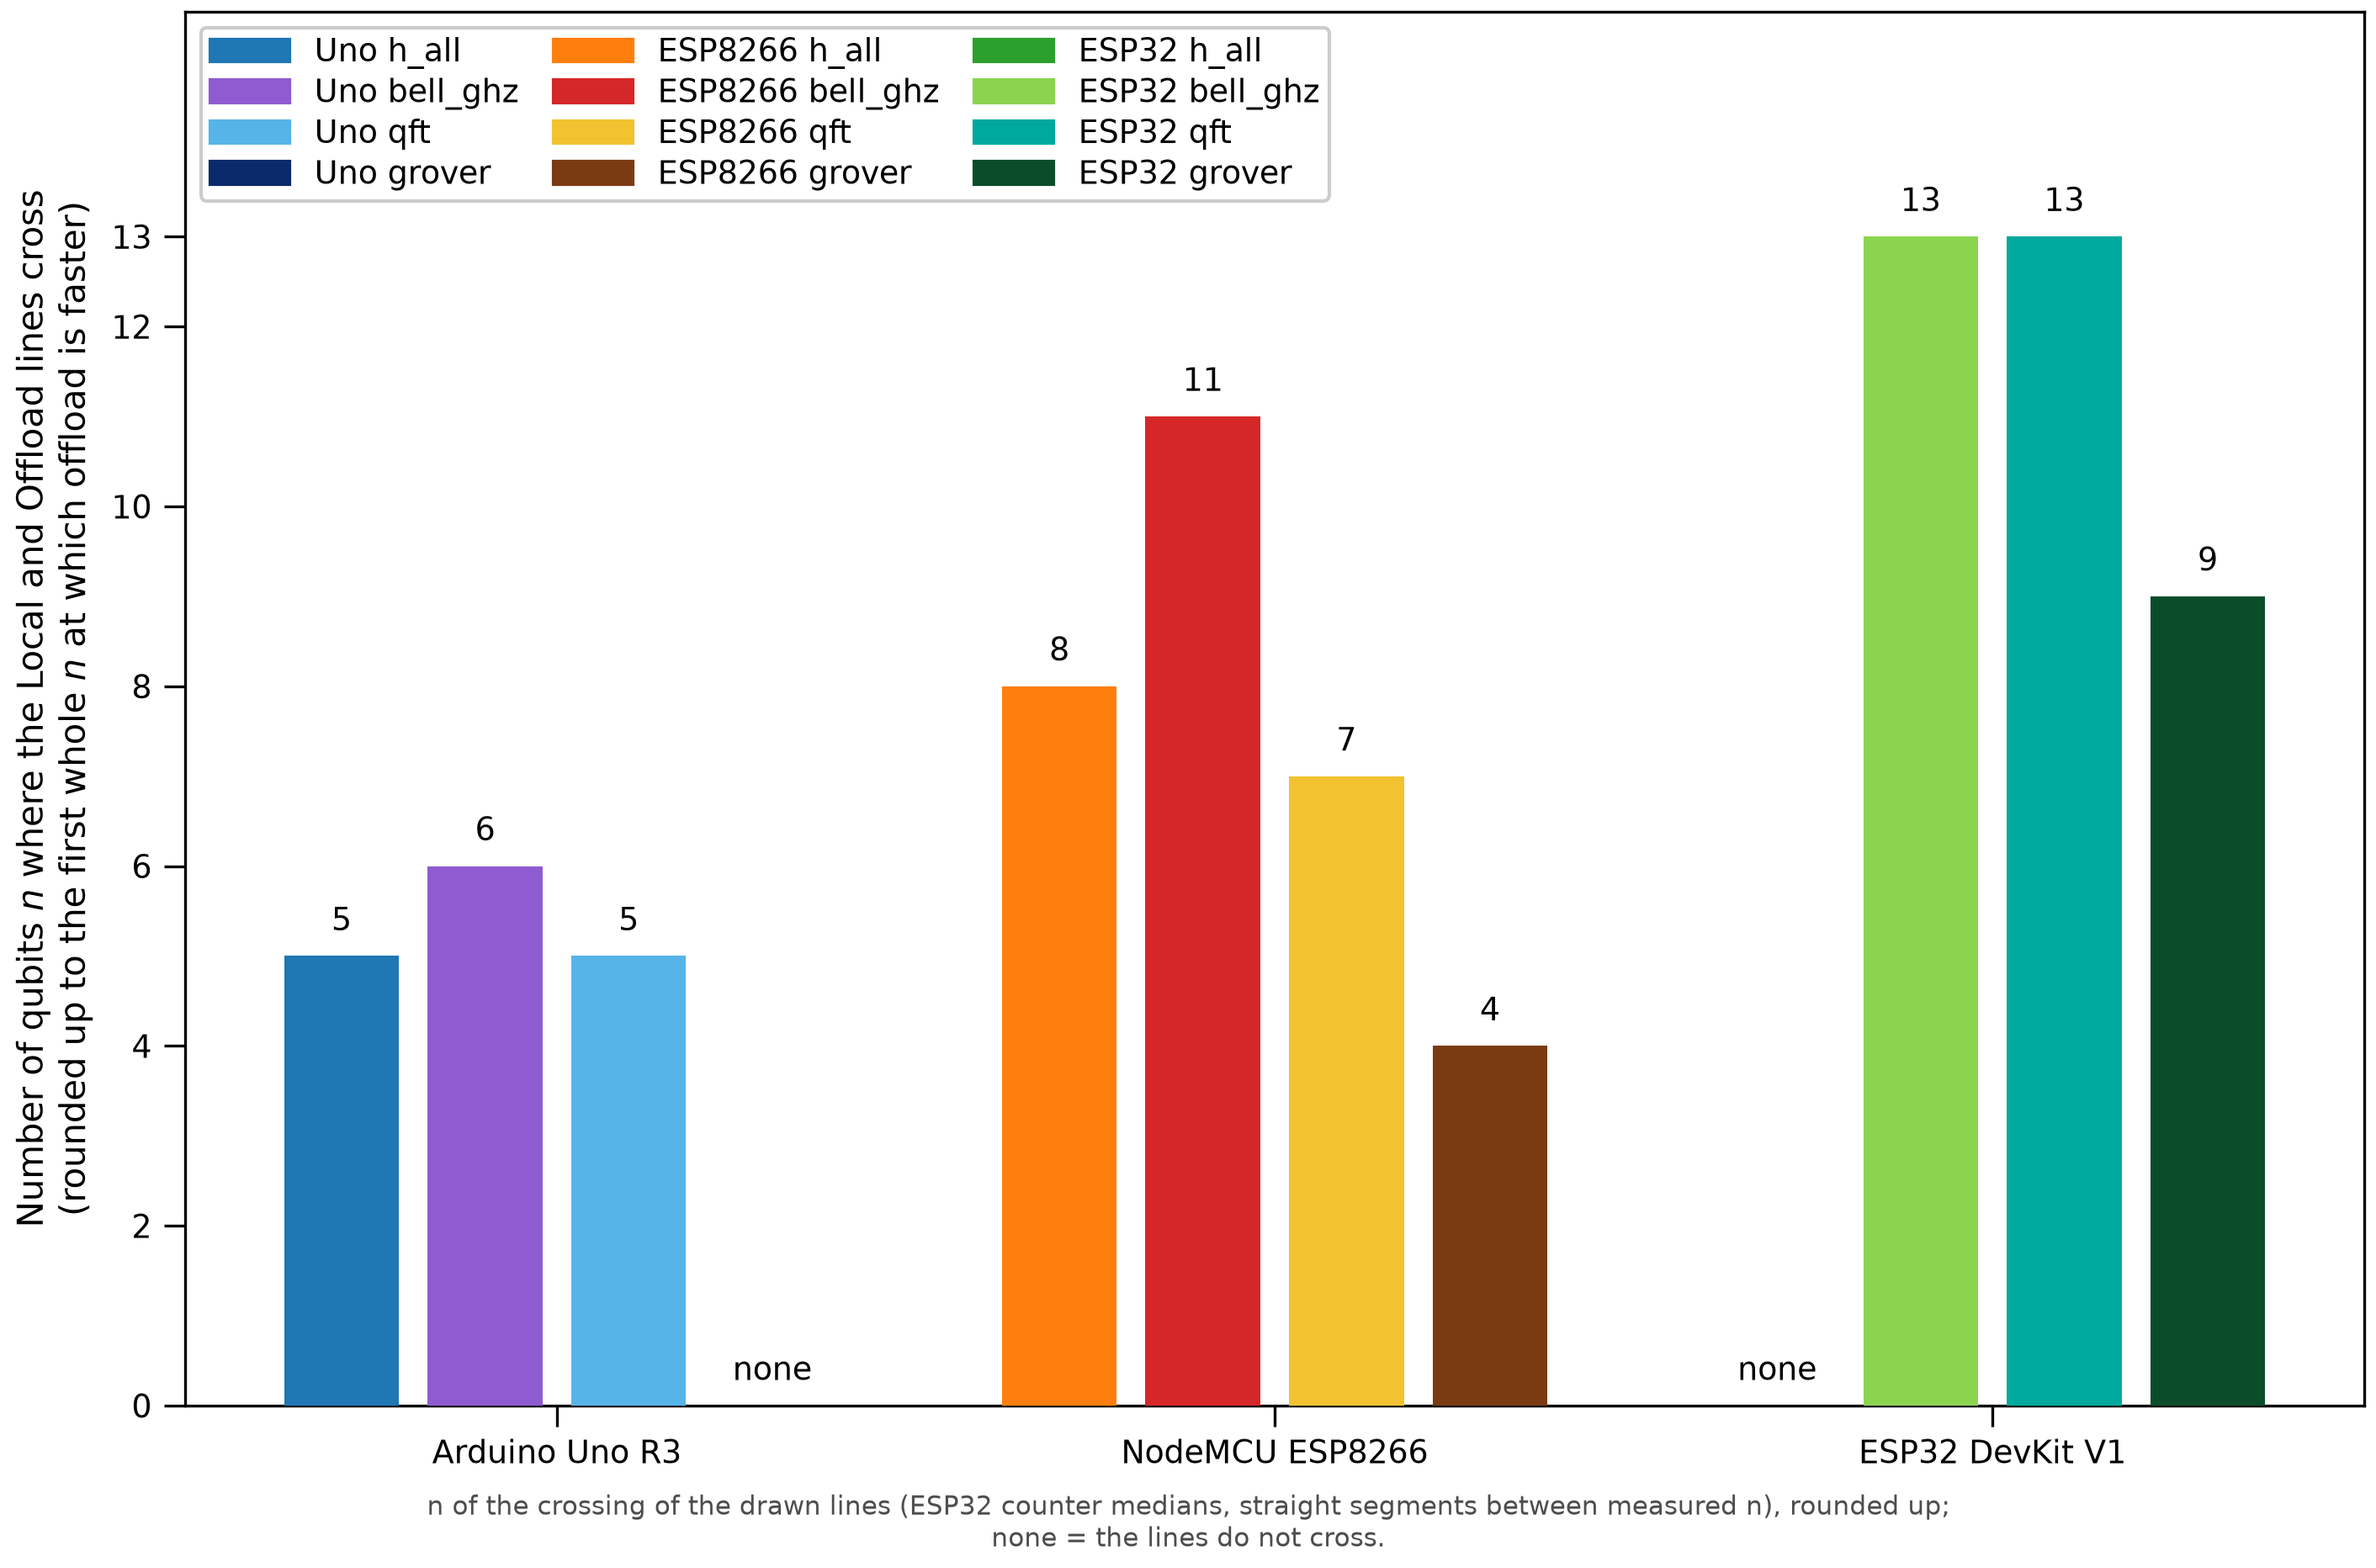
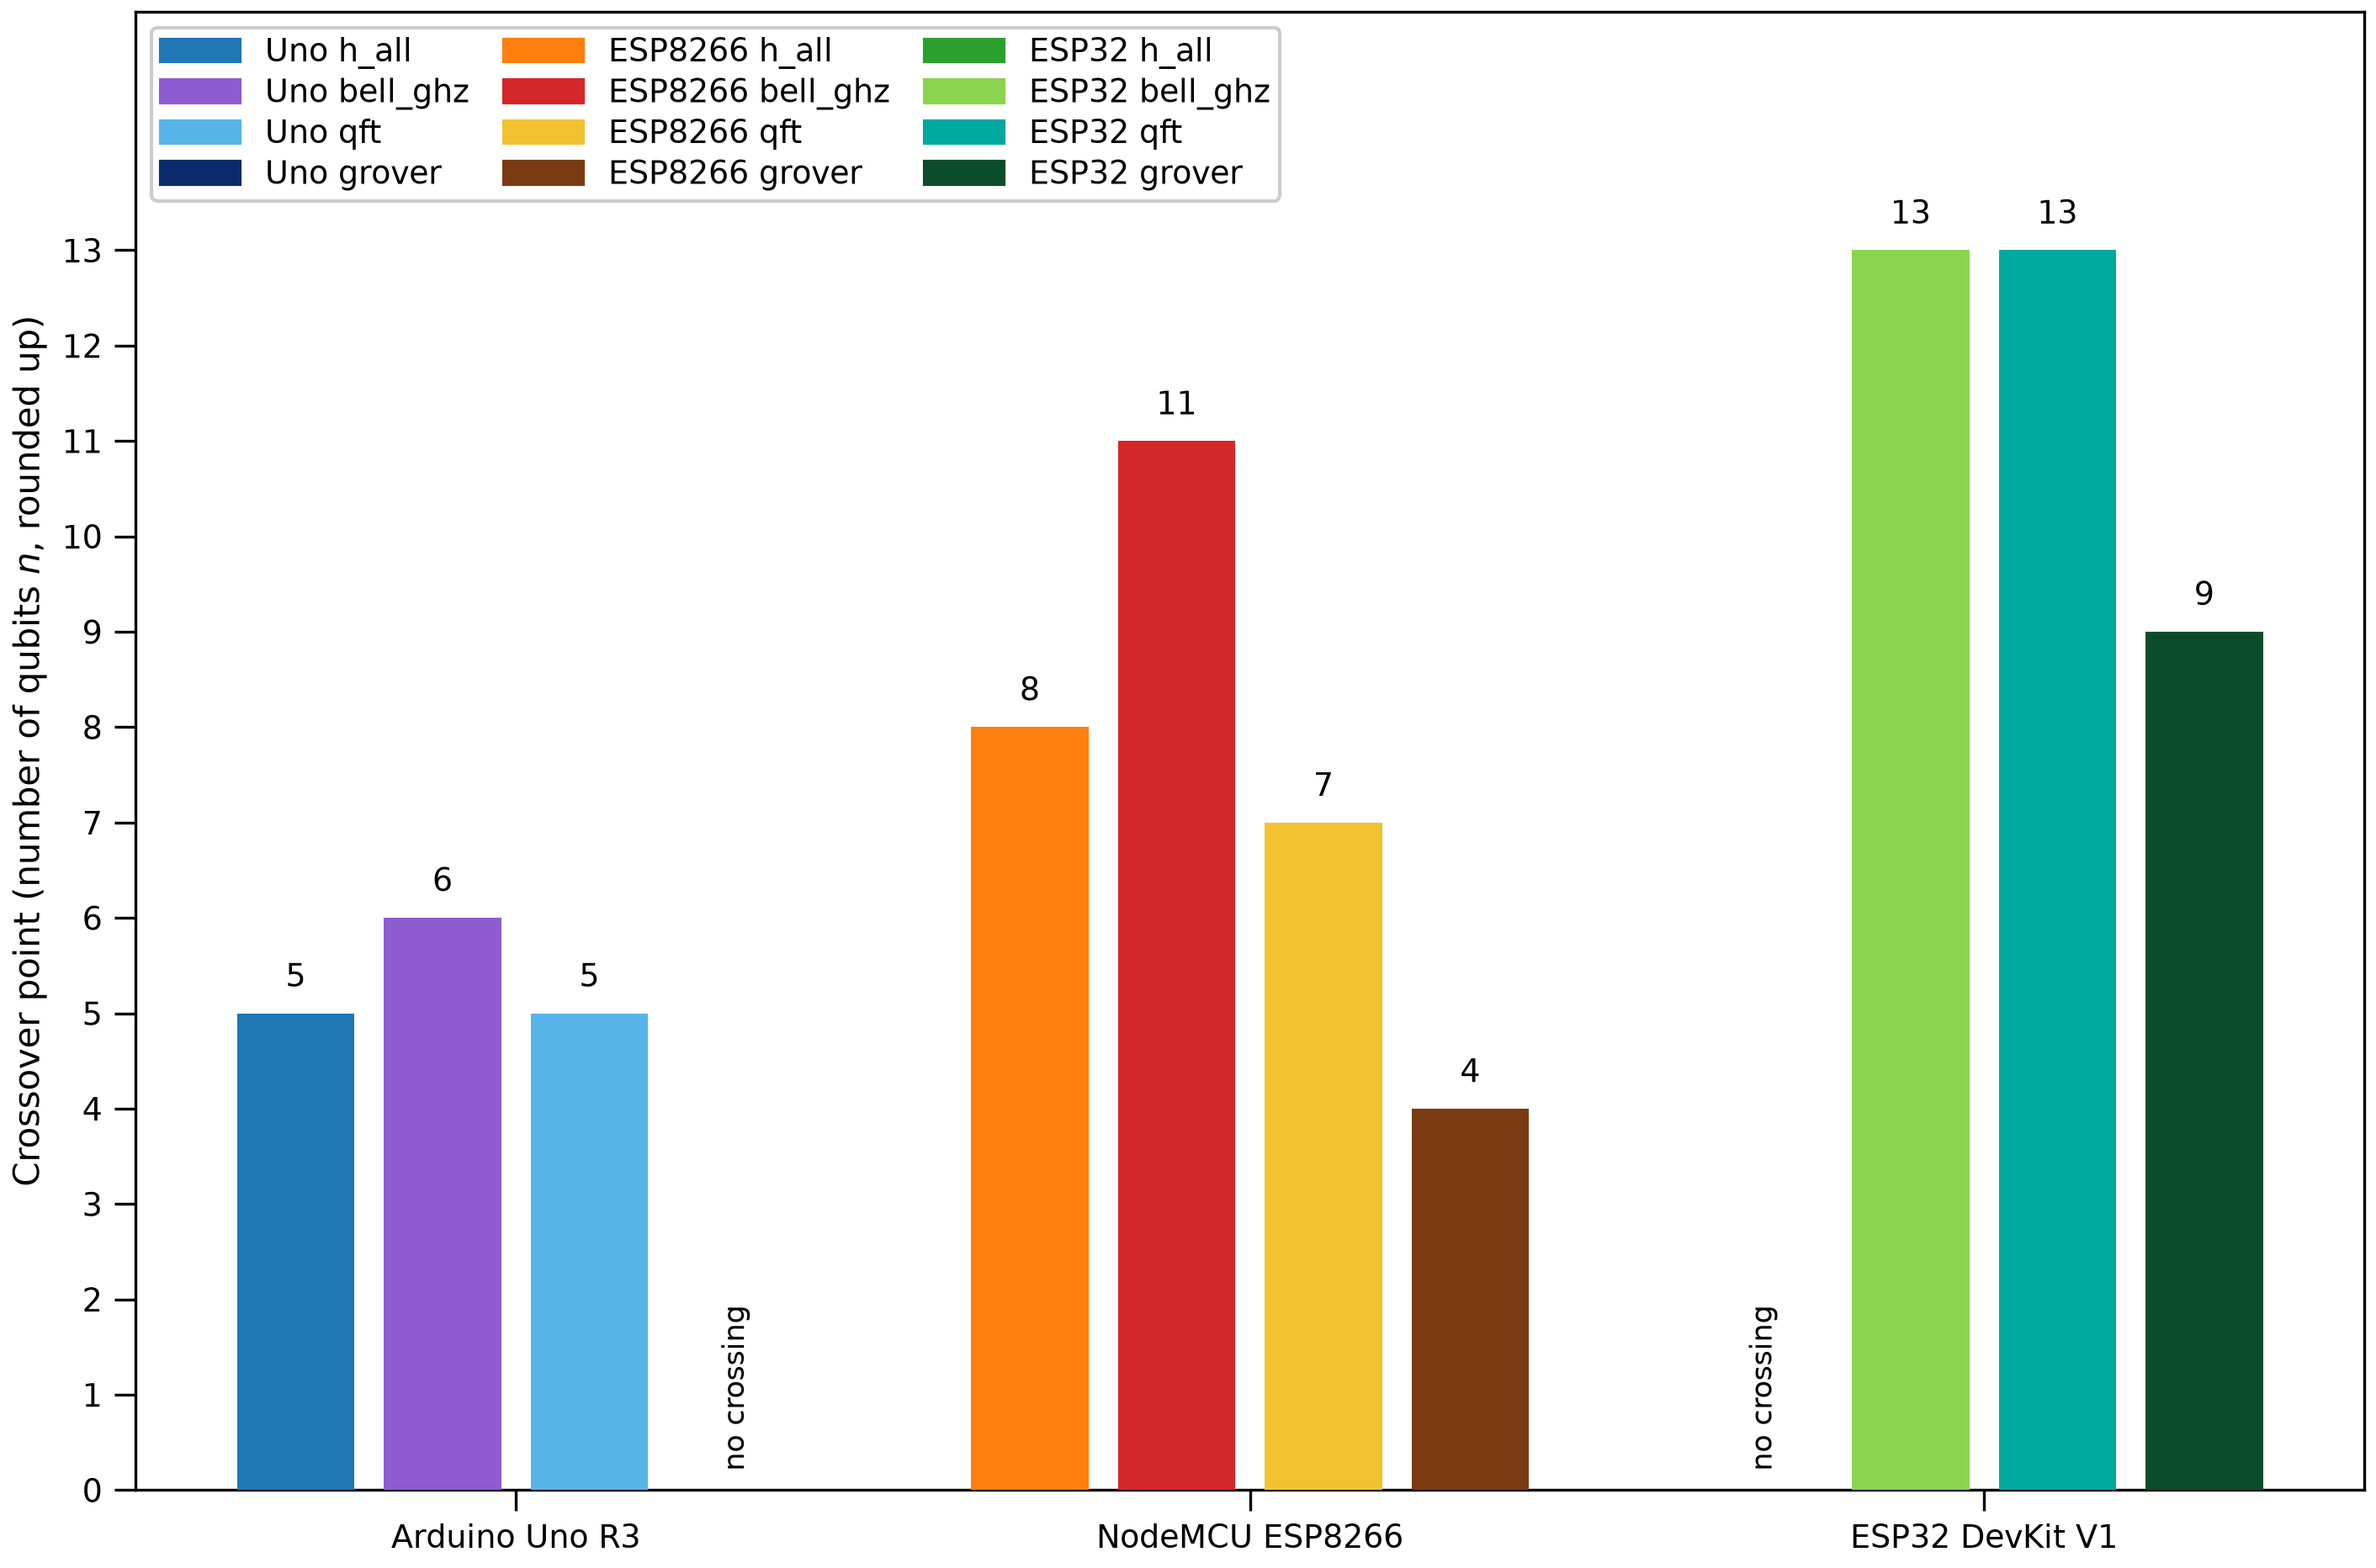
figures: all_boards_all_circuits.png without footnote, y ticks at every whole n, new y label

diff --git a/analysis/phase4_all_in_one.py b/analysis/phase4_all_in_one.py
@@ -3,7 +3,7 @@
 # Phase 4 in one bar chart, graph-create house style (analysis/vendor/plot_style.py): for every board and circuit the number of qubits n at which the Local
 # (Phase 2) and the Offload (Phase 3) lines cross, rounded UP to the first whole n at which offload is faster. The crossing is the dot of the charts in
 # data/figures/phase4/crossover/<board>/<circuit>.png (same data: ESP32 counter medians of the Phase 2 / Phase 3 algorithms charts, same rule: straight segments
-# between measured n, see analysis/crossover_house_plots.py). No bar = the drawn lines do not cross ("none").
+# between measured n, see analysis/crossover_house_plots.py). No bar = the drawn lines do not cross ("no crossing").
 # It is NOT the crossover of Table III (micros() and round trip, as a bracket). Output: data/figures/phase4/all_boards_all_circuits.png
 #
 # Use:  .venv/bin/python analysis/phase4_all_in_one.py
@@ -43,20 +43,18 @@ def main():
             o = cv[(cv.phase == 3) & (cv.board == b) & (cv.circuit == c)].sort_values("n")
             pts = crossings(g.n, g.counter_median_us, o.n, o.counter_median_us)
             if not pts:
-                ax.text(x, 0.2, "none", ha="center", va="bottom", fontsize=9)
+                ax.text(x, 0.2, "no crossing", ha="center", va="bottom", fontsize=8.5, rotation=90)
                 continue
             k = math.ceil(pts[-1][0] - 1e-9)           # first whole n at which offload is faster than local
             ax.bar(x, k, color=col, zorder=3)
             ax.text(x, k + 0.2, f"{k}", ha="center", va="bottom", fontsize=9)
             top = max(top, k)
     ax.set_xticks([bi * (nc + 1) + (nc - 1) / 2 for bi in range(nb)], [LABEL[b] for b in C.BOARDS])
-    ax.set_ylabel("Number of qubits $n$ where the Local and Offload lines cross\n(rounded up to the first whole $n$ at which offload is faster)")
+    ax.set_ylabel("Crossover point (number of qubits $n$, rounded up)")
     ax.set_ylim(0, top + 2.5)
-    ax.set_yticks(sorted(set(range(0, top + 1, 2)) | {top}))
+    ax.set_yticks(range(0, top + 1))                    # equal spacing: a tick at every whole n
     leg = ax.legend(handles=handles, loc="upper left", ncol=nb)
     leg.set_zorder(2.4)
-    fig.supxlabel("n of the crossing of the drawn lines (ESP32 counter medians, straight segments between measured n), rounded up;\n"
-                  "none = the lines do not cross.", fontsize=7.5, color="0.3")
     out = HERE.parent / "data" / "figures" / "phase4" / "all_boards_all_circuits.png"
     house.save_figure(fig, str(out))
     print(out)
